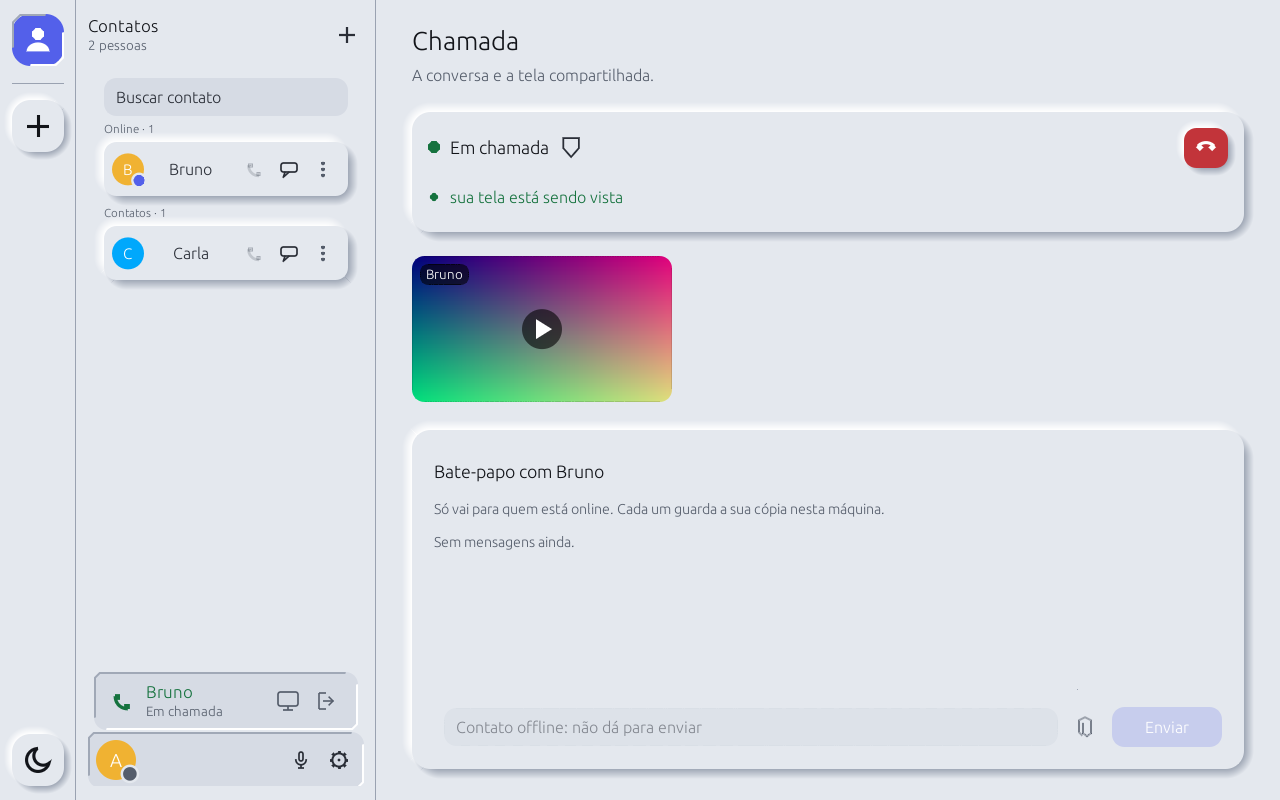
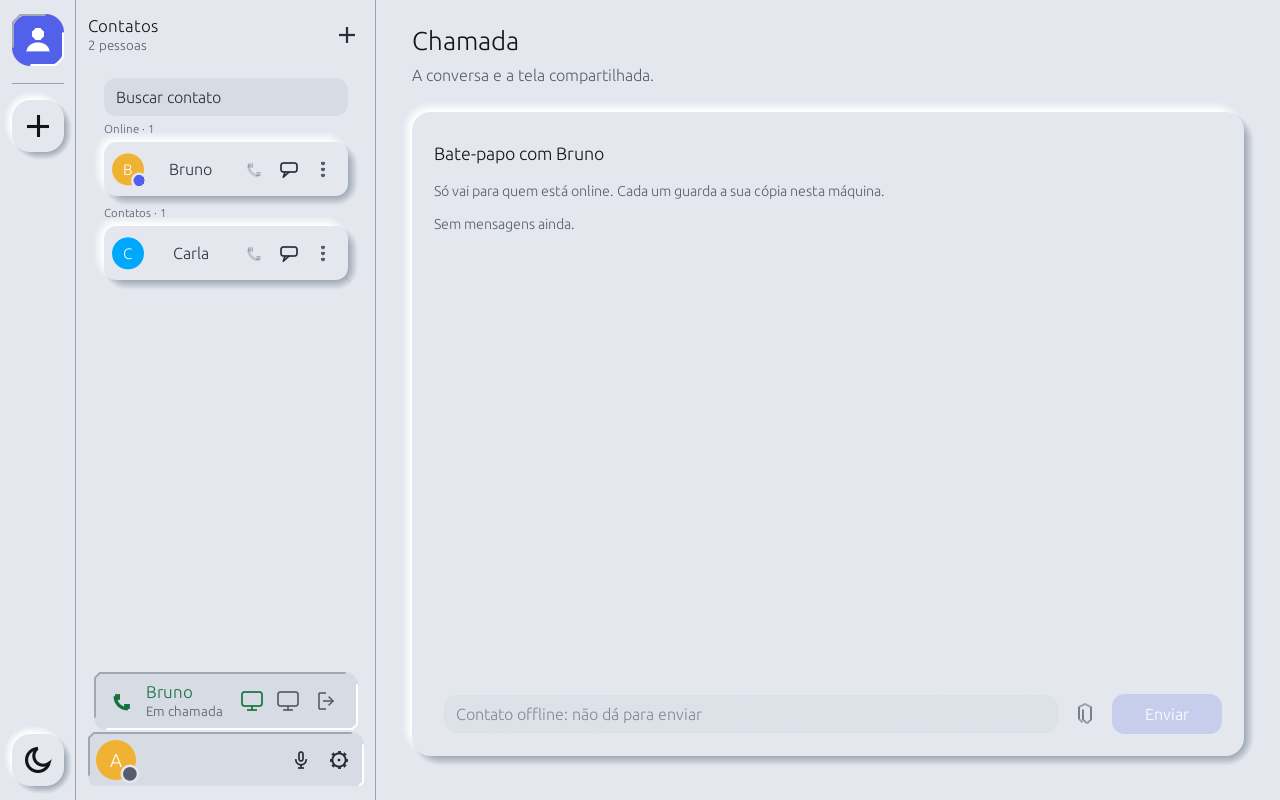
Chamada: sem miniatura nem barra; quem transmite é o monitor verde do pé, como na sala; diagnóstico vai para Atividade
A aba Chamada fica só com o bate-papo. Estado, desligar e transmissão já estão no pé; os detalhes da transmissão (e erro/estado) agora vivem em Atividade.

diff --git a/examples/gui/call.rs b/examples/gui/call.rs
@@ -3,7 +3,7 @@
 use clam::sync::LockExt;
 use std::sync::atomic::Ordering;
 
-use eframe::egui::{self, Color32, CornerRadius, Rect, RichText, vec2};
+use eframe::egui;
 
 use crate::{conf::parse_contacts, engine::*, theme::*, ui::*};
 
@@ -61,16 +61,14 @@ impl App {
             });
             return;
         }
-        let ringing = self.shared.ringing.lock_unpoisoned().is_some();
-        self.call_bar(ui, ringing);
-        if !ringing {
-            // A tela vem antes da conversa: é o que a pessoa foi ver; o bate-papo fica logo abaixo.
-            self.screens_ui(ui);
-            // Na chamada a conversa é com quem está na linha, e dá para escrever sem checar presença.
-            let peer = *self.shared.peer.lock_unpoisoned();
-            if let Some(peer) = peer {
-                self.chat_panel(ui, peer, true);
-            }
+        // Só a conversa: estado, privacidade, desligar e transmissão estão na coluna da esquerda (barra do pé) e o
+        // diagnóstico da transmissão em Atividade. Na chamada dá para escrever sem checar presença.
+        if self.shared.ringing.lock_unpoisoned().is_some() {
+            return;
+        }
+        let peer = *self.shared.peer.lock_unpoisoned();
+        if let Some(peer) = peer {
+            self.chat_panel(ui, peer, true);
         }
     }
 
@@ -81,7 +79,6 @@ impl App {
         {
             let images = st.images.lock_unpoisoned();
             self.screen_tex.retain(|k, _| images.contains_key(k));
-            self.screen_thumb.retain(|k, _| images.contains_key(k));
             for (who, (seq, img)) in images.iter() {
                 if self.screen_tex.get(who).is_none_or(|(n, _)| n != seq) {
                     shown.push((*who, *seq, egui::ColorImage::from_rgba_unmultiplied([img.width, img.height], &img.rgba)));
@@ -95,95 +92,9 @@ impl App {
                 tex.set(color, egui::TextureOptions::LINEAR);
                 *n = seq;
             } else {
-                // A miniatura é uma textura à parte, criada uma vez: fica parada no que a tela mostrava ao chegar.
-                let thumb = ctx.load_texture(format!("mini-{}", who[0]), color.clone(), egui::TextureOptions::LINEAR);
-                self.screen_thumb.insert(who, thumb);
                 let tex = ctx.load_texture(format!("tela-{}", who[0]), color, egui::TextureOptions::LINEAR);
                 self.screen_tex.insert(who, (seq, tex));
             }
-        }
-    }
-
-    /// Barra única da chamada: estado e privacidade à esquerda; som da tela e desligar à direita. Quem transmite vê aqui,
-    /// numa linha, que a tela está sendo vista; o diagnóstico fica recolhido. Nada disso ganha cartão próprio.
-    fn call_bar(&mut self, ui: &mut egui::Ui, ringing: bool) {
-        let st = &self.shared.screen;
-        let (wanted, sharing) = (st.want_share.load(Ordering::Relaxed), st.sharing.load(Ordering::Relaxed));
-        let note_text = st.note.lock_unpoisoned().clone();
-        let diag = st.diagnostics();
-        let link = self.shared.link.lock_unpoisoned().clone();
-        ui.add_space(4.0);
-        raised_frame(ui, R_CARD, 16, |ui| {
-            ui.set_width(ui.available_width());
-            ui.horizontal(|ui| {
-                let state = if ringing { status_dot(ui, pal().yellow, "Chamando…") } else { status_dot(ui, pal().green, "Em chamada") };
-                if !link.is_empty() {
-                    state.on_hover_text(format!("Linha: {link}"));
-                }
-                if !ringing {
-                    privacy_badge(ui, "Privacidade da chamada", "Circuito de 2 saltos, cifrado em camadas, com tráfego constante: quem observa a rede não vê quando você fala. O primeiro salto é o relay de quem liga, então o contato vê o IP dele.");
-                }
-                ui.with_layout(egui::Layout::right_to_left(egui::Align::Center), |ui| {
-                    if hangup_button(ui, if ringing { "Cancelar a chamada" } else { "Desligar a chamada" }).clicked() {
-                        self.shared.hangup.store(true, Ordering::Relaxed);
-                    }
-                });
-            });
-            if sharing {
-                // Ponto desenhado: o "●" da fonte não existe e saía como um quadrado vazio.
-                ui.horizontal(|ui| {
-                    let (rect, _) = ui.allocate_exact_size(egui::vec2(12.0, 12.0), egui::Sense::hover());
-                    ui.painter().circle_filled(rect.center(), 4.0, pal().green);
-                    ui.label(RichText::new("sua tela está sendo vista").strong().color(pal().green));
-                });
-            } else if wanted {
-                note(ui, "ligando o circuito de vídeo...");
-            }
-            if !wanted && !sharing && !note_text.is_empty() {
-                ui.colored_label(pal().error, note_text);
-            }
-            if !diag.is_empty() {
-                // Id fixo: o texto muda a cada segundo e não pode ser a chave do estado aberto/fechado.
-                egui::CollapsingHeader::new(RichText::new("Detalhes da transmissão").size(14.0).color(pal().muted))
-                    .id_salt("detalhes-transmissao")
-                    .icon(chevron)
-                    .show(ui, |ui| {
-                        ui.label(RichText::new(diag).monospace().size(13.0).color(pal().muted));
-                    });
-            }
-        });
-        ui.add_space(14.0);
-    }
-
-    /// As telas de quem transmite para você: uma miniatura parada, pequena. Assistir é clicar nela (tela cheia), e só
-    /// então o som dela toca: a miniatura não tem som nem botão de som.
-    fn screens_ui(&mut self, ui: &mut egui::Ui) {
-        let names = self.form.names();
-        let mut order: Vec<_> = self.screen_thumb.iter().map(|(k, t)| (*k, t.clone())).collect();
-        order.sort_by_key(|(k, _)| *k);
-        for (who, tex) in order {
-            let size = tex.size_vec2();
-            let w = ui.available_width().min(260.0);
-            let (rect, resp) = ui.allocate_exact_size(vec2(w, w * size.y / size.x.max(1.0)), egui::Sense::click());
-            let radius = CornerRadius::same(12);
-            let p = ui.painter();
-            egui::Image::new(&tex).corner_radius(radius).paint_at(ui, rect);
-            let hot = resp.hovered();
-            p.rect_filled(rect, radius, Color32::from_black_alpha(if hot { 70 } else { 30 }));
-            // Triângulo de "assistir" desenhado: o glifo da fonte pode faltar.
-            let c = rect.center();
-            p.circle_filled(c, 20.0, Color32::from_black_alpha(150));
-            p.add(egui::Shape::convex_polygon(vec![c + vec2(-6.0, -10.0), c + vec2(-6.0, 10.0), c + vec2(10.0, 0.0)], Color32::WHITE, egui::Stroke::NONE));
-            // Nome no canto de cima, sobre um fundo escuro para ler em qualquer imagem.
-            let label = p.layout_no_wrap(member_name(&names, &who), egui::FontId::proportional(13.0), Color32::WHITE);
-            let tag = Rect::from_min_size(rect.min + vec2(8.0, 8.0), label.size() + vec2(12.0, 6.0));
-            p.rect_filled(tag, CornerRadius::same(8), Color32::from_black_alpha(150));
-            p.galley(tag.min + vec2(6.0, 3.0), label, Color32::WHITE);
-            let resp = resp.on_hover_text("Assistir a tela (Esc ou o X para sair)").on_hover_cursor(egui::CursorIcon::PointingHand);
-            if resp.clicked() {
-                self.zoom = Some(who);
-            }
-            ui.add_space(14.0);
         }
     }
 }

diff --git a/examples/gui/servers.rs b/examples/gui/servers.rs
@@ -408,7 +408,7 @@ impl App {
                             Bar::Share(false) => self.send(Cmd::RoomShare(false)),
                             Bar::Leave => self.send(Cmd::LeaveRoom),
                             Bar::Open => self.srv.chat_over_screen = true,
-                            Bar::Accept => {}
+                            Bar::Accept | Bar::Watch => {}
                             Bar::None => {}
                         }
                     } else if let Some(who) = call_bar {
@@ -421,6 +421,7 @@ impl App {
                             Bar::Leave if incoming.is_some() => self.shared.answer.store(ANSWER_REJECT, Ordering::Relaxed),
                             Bar::Accept => self.shared.answer.store(ANSWER_ACCEPT, Ordering::Relaxed),
                             Bar::Leave => self.shared.hangup.store(true, Ordering::Relaxed),
+                            Bar::Watch => self.zoom = self.screen_tex.keys().min().copied(),
                             Bar::Open | Bar::None => {}
                         }
                     }
@@ -492,6 +493,14 @@ impl App {
                     }
                     if ring == Ring::No && screen_button(ui, sharing).clicked() {
                         out = Bar::Share(!sharing);
+                    }
+                    // Na chamada, quem transmite aparece com o mesmo monitor verde da sala; clicar assiste (tela cheia).
+                    if ring == Ring::No && matches!(glyph, Glyph::Phone) && !self.screen_tex.is_empty() {
+                        let icon = screen_icon(ui, pal().green, false, egui::Sense::click());
+                        icon.widget_info(|| egui::WidgetInfo::labeled(egui::WidgetType::Button, true, "Assistir à tela"));
+                        if icon.on_hover_cursor(egui::CursorIcon::PointingHand).on_hover_text("Transmitindo a tela: assistir").clicked() {
+                            out = Bar::Watch;
+                        }
                     }
                 });
             });
@@ -935,6 +944,8 @@ enum Bar {
     Open,
     /// Atendeu a chamada que tocava.
     Accept,
+    /// Clicou no monitor de quem transmite na chamada: abre a tela.
+    Watch,
 }
 
 #[cfg(test)]

diff --git a/examples/gui/settings.rs b/examples/gui/settings.rs
@@ -212,7 +212,31 @@ impl App {
         }
     }
 
+    /// Estado e diagnóstico da transmissão de tela (taxa, QP, som...), que não ocupam mais a tela da chamada.
+    fn broadcast_card(&self, ui: &mut egui::Ui) {
+        let st = &self.shared.screen;
+        let diag = st.diagnostics();
+        let note_text = st.note.lock_unpoisoned().clone();
+        let (wanted, sharing) = (st.want_share.load(Ordering::Relaxed), st.sharing.load(Ordering::Relaxed));
+        if diag.is_empty() && note_text.is_empty() && !wanted && !sharing {
+            return;
+        }
+        card(ui, "Transmissão da tela", "", |ui| {
+            if sharing {
+                ui.colored_label(pal().green, "sua tela está sendo vista");
+            } else if wanted {
+                note(ui, "ligando o circuito de vídeo...");
+            } else if !note_text.is_empty() {
+                ui.colored_label(pal().error, note_text);
+            }
+            if !diag.is_empty() {
+                ui.label(RichText::new(diag).monospace().size(13.0).color(pal().muted));
+            }
+        });
+    }
+
     pub(crate) fn log_tab(&mut self, ui: &mut egui::Ui) {
+        self.broadcast_card(ui);
         // Sem linhas o poço de altura cheia só carregava uma frase no canto: um cartão curto diz o mesmo e o poço
         // volta quando houver o que listar.
         if self.log.lock_unpoisoned().is_empty() {
@@ -277,7 +301,6 @@ mod layout_tests {
             tab: Tab::Settings,
             audio_dirty: false,
             screen_tex: Default::default(),
-        screen_thumb: Default::default(),
             zoom: None,
             trust_ask: None,
             chat_with: None,

diff --git a/examples/gui/theme.rs b/examples/gui/theme.rs
@@ -712,15 +712,6 @@ pub(crate) fn power_icon(ui: &Ui, rect: egui::Rect, color: Color32) {
     ui.painter().line_segment([c - vec2(0.0, r * 1.25), c - vec2(0.0, r * 0.1)], stroke);
 }
 
-/// Selo só de leitura (sem clique, sem mão): escudo com a explicação no hover. O estado vai no texto da dica e no nome
-/// acessível, não só no desenho.
-pub(crate) fn privacy_badge(ui: &mut Ui, name: &str, tip: &str) -> egui::Response {
-    let (rect, reply) = ui.allocate_exact_size(vec2(24.0, 24.0), egui::Sense::hover());
-    reply.widget_info(|| egui::WidgetInfo::labeled(egui::WidgetType::Label, true, name));
-    shield_icon(ui.painter(), rect.center(), 20.0, pal().text, false);
-    reply.on_hover_text(tip)
-}
-
 /// Sol (ou lua, no tema claro) desenhado à mão: o botão que troca o tema. O raio do disco e os raios de luz
 /// seguem a largura de `rect`.
 pub(crate) fn theme_icon(painter: &egui::Painter, rect: Rect, light: bool, color: Color32) {

diff --git a/examples/gui/snapshot.rs b/examples/gui/snapshot.rs
@@ -178,7 +178,6 @@ fn sample_app(tab: Tab) -> App {
         tab,
         audio_dirty: false,
         screen_tex: Default::default(),
-        screen_thumb: Default::default(),
         zoom: None,
         trust_ask: None,
         chat_with: None,
@@ -211,7 +210,6 @@ fn shot_in_call(size: egui::Vec2) -> Frame {
             let (w, h) = (320, 180);
             let px: Vec<Color32> = (0..w * h).map(|i| Color32::from_rgb((i % w * 255 / w) as u8, (i / w * 255 / h) as u8, 140)).collect();
             let tex = ctx.load_texture("tela-teste", egui::ColorImage::new([w, h], px), egui::TextureOptions::LINEAR);
-            app.screen_thumb.insert(peer, tex.clone());
             app.screen_tex.insert(peer, (1, tex));
             made = true;
         }

diff --git a/examples/gui/ui.rs b/examples/gui/ui.rs
@@ -44,8 +44,6 @@ pub(crate) struct App {
     pub(crate) srv: crate::servers::ServersUi,
     /// Textura da tela de quem transmite para você e o número da imagem que ela mostra.
     pub(crate) screen_tex: std::collections::HashMap<[u8; 32], (u64, egui::TextureHandle)>,
-    /// Miniatura estática de cada tela que chega: o primeiro quadro, parado. Assistir é clicar (tela cheia).
-    pub(crate) screen_thumb: std::collections::HashMap<[u8; 32], egui::TextureHandle>,
     /// Contato que a pessoa acabou de marcar como de confiança e ainda não confirmou o aviso do IP.
     pub(crate) trust_ask: Option<[u8; 32]>,
     /// Contato cuja conversa 1:1 está aberta no centro, e o texto ainda não enviado.

diff --git a/examples/gui/main.rs b/examples/gui/main.rs
@@ -63,7 +63,6 @@ fn main() -> eframe::Result {
                 tab: Tab::Contacts,
                 audio_dirty: false,
                 screen_tex: Default::default(),
-        screen_thumb: Default::default(),
                 zoom: None,
                 trust_ask: None,
                 chat_with: None,

diff --git a/docs/GUI.md b/docs/GUI.md
@@ -14,7 +14,7 @@ A janela segue o layout do Discord e o visual neomórfico (soft UI: uma cor base
 |---|---|
 | **Contatos** (ícone de pessoa no trilho; não é aba) | Na coluna da esquerda, no lugar das salas: um contato por linha com o avatar (um ponto verde no canto indica contato online; contato sabidamente offline fica com avatar e nome apagados; o hover diz Online, Offline, "Verificando se está online…" (a sondagem ainda não respondeu) ou "Você está offline", então a presença não depende só da cor; clicar no avatar ou no nome abre o bate-papo; os dois ficam fora do Tab, e a parada é o botão de bate-papo; contato sem nome aparece como "Novo contato", apagado, com o começo da chave no hover; o subtítulo da coluna diz "2 online · 5 pessoas"; quando há online e não-online juntos, a lista se divide em *Online · N*, *Offline · N* e *Verificando… · N* (a sondagem ainda não respondeu), com títulos só quando há mais de um grupo, lidos como cabeçalho (com foco de teclado), a mensagem nova subindo só dentro do próprio grupo e grupos e ordem parados sob o ponteiro (quem muda de presença ali só troca de grupo ao soltá-lo); o contato da chamada em curso abre a lista, com o ponto no acento (não no verde), "Em chamada" no hover do avatar e "Você já está em chamada com este contato" no ligar apagado; para teclado e leitor de tela, o estado vai no nome acessível dos botões: "Bate-papo com Ana, online" e "Ligar para Ana (indisponível: …)"; o seu próprio estado offline não entra no nome, para não parecer que é o contato que está offline), ligar, bate-papo (azul quando há mensagem nova; a bolinha com o número de novas e a subida para o topo continuam, mas a ordem fica parada enquanto o ponteiro está sobre a lista, para o botão não fugir; o ícone de pessoa do trilho mostra o total) e um menu de três pontos com *Marcar como de confiança* / *Tirar a confiança* e *Remover contato* (vermelho; pede confirmação antes de tirar o contato e avisá-lo). Quem é de confiança mostra uma marca de escudo cheio, com visto, em tinta neutra forte (não verde: o verde é "ao vivo/ok" e a confiança expõe o IP), ao lado do nome (sem clique, mas com foco de teclado e nome para leitor de tela), porque expõe o IP e não pode ficar escondido no menu. Sem contatos, a coluna esconde a busca e mostra o formulário de adicionar já aberto, a explicação de que os dois trocam o código e o atalho *Ver o meu código* (Configurações). A confirmação de remover acontece dentro do próprio menu de três pontos, sem janela: a pergunta, o efeito escrito, a caixa *Bloquear também* e os botões *Remover* e *Cancelar* (o foco entra em *Cancelar*; Esc desfaz a pergunta e volta ao item, e o segundo Esc fecha o menu; depois de remover, o foco vai para a busca). A busca no alto (Esc limpa o texto) e o + *Novo contato* à direita do título (só o código; o nome vem do próprio contato). O centro mostra a tela de Chamada |
 | *Servidor* (pelo trilho) | As *Salas de voz* com quem está em cada uma, o aro verde de quem fala e, no centro, o bate-papo da sala em que você está (apagado quando a sala esvazia; enquanto você assiste a uma tela ela cobre o centro e o bate-papo só volta ao parar de assistir ou ao clicar no nome da sala na barra do pé), *Telas da sala*, e, numa coluna à direita, os *Membros* (online e offline) com o convite recolhido e o aviso de IP. A coluna de membros só abre sozinha em janela de 1100 px ou mais (trilho + salas + membros tomam 716 px e o bate-papo precisa de ~380); em janela menor ela fica escondida, e o ícone de duas pessoas no cabeçalho das salas (dica: "membros e convite", já que o convite mora nessa coluna) mostra ou esconde e fica afundado enquanto a coluna está aberta, a escolha valendo até fechar o app. Detalhes em [SERVIDORES.md](SERVIDORES.md) |
-| **Chamada** | *Ligar para um código* (sem chamada); a conversa (chamar ou atender não troca de aba; compartilhar a tela e o mudo ficam só na barra do pé, sem botão aqui), uma barra única no topo (estado da chamada, selo de privacidade, desligar; quando você transmite, "sua tela está sendo vista" e o diagnóstico num bloco recolhido *Detalhes da transmissão*) e, de quem transmite para você, uma miniatura pequena e parada (o primeiro quadro) com o nome, sem som nem botão de som; assistir é clicar nela, e abre a tela cheia, onde o som da tela toca e fica a chave de ouvir (a chave de enviar o seu som fica na barra) (🔍; a janela do app vai a tela cheia e a imagem ocupa tudo; sai pelo X no canto ou pelo Esc) |
+| **Chamada** | *Ligar para um código* (sem chamada); a conversa (chamar ou atender não troca de aba; compartilhar a tela e o mudo ficam só na barra do pé, sem botão aqui), só o bate-papo (sem cartões de estado, privacidade ou desligar: isso fica na barra do pé). Quem transmite aparece na barra do pé com o monitor verde, igual ao da sala; clicar assiste (tela cheia, sem miniatura), onde o som da tela toca e fica a chave de ouvir (enviar o seu som é perguntado ao começar a transmitir) (🔍; a janela do app vai a tela cheia e a imagem ocupa tudo; sai pelo X no canto ou pelo Esc) |
 | **Vídeo** | *Transmissão de tela*: privacidade, *Priorizar* fluidez ou nitidez e codificar pela placa de vídeo; valem da próxima transmissão, na chamada e nas salas. A linha de diagnóstico da transmissão traz "som: capturados N (M com som), enviados N, recebidos N, tocados N", que diz em que etapa o som parou (capturado sem som é o monitor errado ou nada tocando), e a falha ao abrir a captura (sem `gst-launch-1.0` ou saída padrão) aparece na janela, não só no log. O som da tela não fica aqui: o envio do som do computador é perguntado numa janela *Transmitir a tela* (Com som / Sem som / Cancelar) toda vez que se começa a transmitir, na chamada e na sala, e só ali; ouvir (*Ouvir o som das telas*, alto-falante riscado quando desligado) só existe dentro da tela cheia, depois de abrir a transmissão (na chamada e na sala), e vale na hora (enviar existe no Linux e no Windows; ver [CHAMADAS.md](CHAMADAS.md#transmissão-de-tela-clammediascreen-clamphone)) |
 | **Áudio** | *Dispositivos* (usar microfone e alto-falante, escolha dos dois), *Volume e microfone* (mudo, volume, ganho, medidor, sensibilidade, teste) e três cartões de tratamento da voz: *Ruído* (remover ruído, silenciar o que não é voz e o quanto abaixar, cortar graves), *Eco* (cancelar e abaixar o microfone) e *Nível e formato* (volume automático, Opus, restaurar padrões) |
 | **Configurações** | *Conexão* (Ficar online / offline, o estado e a caixa *Tentar ficar online ao abrir o programa*, ligada por padrão; desmarcar grava `no_auto_online=1` em `~/.clam-gui.conf`), *Meu código de contato* (com *Copiar o código*), *Identidade* (a chave secreta, oculta; *Gerar nova identidade*), *Seu nome*, *Endereço* público, *Encontrar contatos* (DHT, circuito da DHT, aceitar apresentações) e *Âncoras* (servir de âncora, as que você usa e o código da sua) |

diff --git a/docs/CHAMADAS.md b/docs/CHAMADAS.md
@@ -122,7 +122,7 @@ A tela anda num **circuito só dela**, aberto por quem transmite até o telefone
 - Captura X11 (feature `capture`, `clam::capture`): `X11Screen` lê a janela raiz por `GetImage`. Sob Wayland o XWayland recusa a leitura (`BadMatch`) e `X11Screen::open` devolve `Unreadable`.
 - Captura Windows (feature `capture`, `clam::capture::GdiScreen`): `BitBlt` da tela principal para um bitmap, via `windows-sys`; o processo se declara ciente de DPI para pegar a resolução real. `X11Screen`, `PortalScreen` e suas dependências (`x11rb`, `ashpd`, `rustix`) só existem no Unix; no Windows a GUI usa só o GDI. O código GDI foi verificado só por compilação cruzada do módulo isolado (o `openh264` precisa de mingw para compilar o crate inteiro), sem execução em Windows.
 - Captura Wayland (feature `portal`, Unix, `clam::portal`): `PortalScreen::open().await` pede ao portal `ScreenCast` (diálogo do compositor: monitor ou janela, a cada transmissão) e lê o PipeWire por um `gst-launch-1.0` filho que entrega RGBA a 15 quadros/s (ou a taxa pedida em `PortalScreen::open_with`), reduzido a no máximo 1920 de largura. Não há dependência de compilação do PipeWire; em tempo de execução precisa de `gstreamer1.0-tools`, `gstreamer1.0-plugins-base` e `gstreamer1.0-pipewire`. O Wayland só manda quadro quando a tela muda; por isso o `videorate` é `drop-only=true` (sem isso ele segura cada quadro até chegar o próximo e a última imagem antes de a tela parar nunca saía: "a tela para" para quem assiste, medido com `videotestsrc` a 1 quadro a cada 2 s) e o `pipewiresrc` repete o último quadro a cada 250 ms (`keepalive-time`), para o codificador ver a imagem calma e devolver resolução e nitidez. Limite: não verificado num compositor real (sem display aqui). Teste manual: `cargo test --features portal --lib -- --ignored real_portal`. Outra fonte entra implementando `ScreenSource`.
-- GUI: a aba Chamada não rola (só o bate-papo rola, no próprio painel). A barra tem o aviso "sua tela está sendo vista" quando você transmite (circuito de tela a 15 quadros/s, 30 sem privacidade; começa pelo botão de tela do pé); a tela de quem transmite para você aparece como miniatura parada logo abaixo, sem som e sem botão; clicar abre a tela cheia, e só com ela aberta o som da tela toca (a chave de ouvir só existe lá; enviar o seu som é perguntado ao começar a transmitir). Vale igual nas salas: fora da tela cheia a tela é muda. O diagnóstico, no bloco recolhido "Detalhes da transmissão", mostra taxa (kbps), pacotes/s, QP, resolução (imagem 1/N) e quadros adiados. A feature `gui` inclui `capture` e `portal`: sob Wayland usa o portal (a pessoa escolhe a tela no diálogo do sistema), nos outros casos o X11, e uma serve de reserva da outra. Ao cair a ligação a transmissão para e é preciso ligar de novo.
+- GUI: a aba Chamada só tem o bate-papo (e só ele rola). Quem transmite aparece na barra do pé com o monitor verde, como na sala; clicar abre a tela cheia (sem miniatura), e só com ela aberta o som toca; a chave de ouvir só existe lá. Enviar o som é perguntado ao começar a transmitir (botão de tela do pé). O diagnóstico (taxa em kbps, pacotes/s, QP, resolução, quadros adiados, som) e o estado da transmissão ficam em Configurações > Atividade, cartão "Transmissão da tela". A feature `gui` inclui `capture` e `portal`: sob Wayland usa o portal (a pessoa escolhe a tela no diálogo do sistema), nos outros casos o X11, e uma serve de reserva da outra. Ao cair a ligação a transmissão para e é preciso ligar de novo.
 
 ### Bate-papo 1:1 (`media::update`, etiqueta 13)
 
